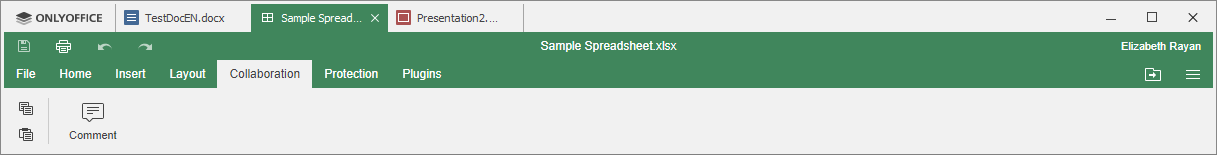
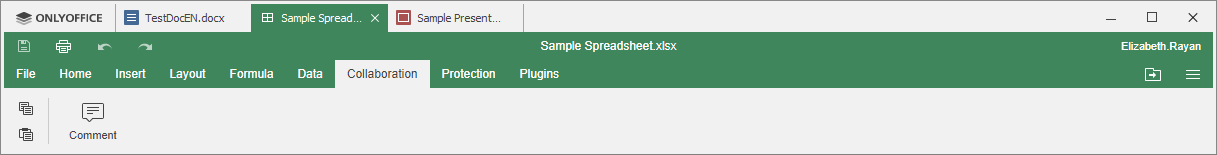
Updates to the documentation

Changed region(s): [[0.1561, 0.3871, 0.4684, 0.5677], [0.3435, 0.0774, 0.4059, 0.1548]]

diff --git a/OfficeWeb/apps/spreadsheeteditor/main/resources/help/ru/UsageInstructions/InsertHeadersFooters.htm b/OfficeWeb/apps/spreadsheeteditor/main/resources/help/ru/UsageInstructions/InsertHeadersFooters.htm
@@ -1,0 +1,46 @@
+<!DOCTYPE html>
+<html>
+	<head>
+		<title>Вставка верхнего и нижнего колонтитулов</title>
+		<meta charset="utf-8" />
+        <meta name="description" content="Вставляйте верхние и нижние колонтитулы, чтобы отобразить дополнительную информацию в печатной версии таблицы." />
+		<link type="text/css" rel="stylesheet" href="../editor.css" />
+        <script type="text/javascript" src="../callback.js"></script>
+        <script type="text/javascript" src="../search/js/page-search.js"></script>
+	</head>
+	<body>
+		<div class="mainpart">
+        <div class="search-field">
+            <input id="search" class="searchBar" placeholder="Search" type="text" onkeypress="doSearch(event)">
+        </div>
+			<h1>Вставка верхнего и нижнего колонтитулов</h1>
+            <p>Колонтитулы позволяют вставить в печатную версию рабочего листа какую-то дополнительную информацию, такую как дата и время, номер страницы, имя листа и так далее. Колонтитулы отображаются в печатной версии электронной таблицы.</p>
+			<p>Чтобы вставить верхний или нижний колонтитул на рабочий лист:</p>
+			<ol>
+			<li>перейдите на вкладку <b>Макет</b>,</li>
+			<li>нажмите кнопку <img alt="Кнопка Изменить колонтитулы" src="../images/header_footer_icon.png" /> <b>Изменить колонтитулы</b> на верхней панели инструментов,</li>
+            <li>откроется окно <b>Параметры колонтитулов</b>, в котором можно настроить следующие параметры:
+                <ul>
+                    <li>поставьте галочку <b>Особый для первой страницы</b>, если надо применить особый верхний или нижний колонтитул для самой первой страницы или вообще не добавлять на нее колонтитулы. Ниже появится вкладка <b>Первая страница</b>.</li>
+                    <li>поставьте галочку <b>Разные для четных и нечетных</b>, чтобы добавить разные колонтитулы для четных и нечетных страниц. Ниже появятся вкладки <b>Нечетная страница</b> и <b>Четная страница</b>.</li>
+                    <li>опция <b>Изменять масштаб вместе с документом</b> позволяет масштабировать колонтитулы вместе с рабочим листом. Этот параметр включен по умолчанию.</li>
+                    <li>опция <b>Выровнять относительно полей страницы</b> позволяет выровнять левый колонтитул по левому полю и правый колонтитул по правому полю. Этот параметр включен по умолчанию.</li>
+                </ul>
+                <p><img alt="Параметры колонтитулов" src="../images/header_footer_settings.png" /></p>
+            </li>
+            <li>вставьте нужные данные. В зависимости от выбранных параметров, вы можете изменить настройки для <b>Всех страниц</b> или настроить колонтитулы для первой страницы, а также для нечетных и четных страниц в отдельности. Перейдите на нужную вкладку и настройте доступные параметры. Вы можете использовать один из готовых пресетов или вставить вручную нужные данные в левое, центральное и правое поля верхнего и нижнего колонтитула:
+                    <ul>
+                        <li>выберите один из доступных пресетов в списке <b>Предустановки</b>: <em>Страница 1</em>; <em>Страница 1 из ?</em>; <em>Лист1</em>; <em>Конфиденциально, дд/мм/гггг, Страница 1</em>; <em>Имя таблицы.xlsx</em>; <em>Лист1, Страница 1</em>; <em>Лист1, Конфиденциально, Страница 1</em>; <em>Имя таблицы.xlsx, Страница 1</em>; <em>Страница 1, Лист</em>; <em>Страница 1, Имя таблицы.xlsx</em>; <em>Автор, Страница 1, дд/мм/гггг</em>; <em>Подготовил: Автор дд/мм/гггг, Страница 1</em>.
+                            <p>Будут добавлены соответствующие переменные.</p>
+                        </li>
+                        <li>установите курсор в левом, центральном или правом поле верхнего или нижнего колонтитула и используйте список <b>Вставить</b>, чтобы добавить <em>Номер страницы</em>, <em>Число страниц</em>, <em>Дату</em>, <em>Время</em>, <em>Имя файла</em>, <em>Имя листа</em>.</li>
+                    </ul>
+                </li>
+            <li>отформатируйте текст, вставленный в верхний или нижний колонтитул, используя соответствующие опции. Можно изменить заданный по умолчанию шрифт, его размер, цвет, применить такие стили шрифта, как жирный, курсив, подчеркнутый, зачеркнутый, использовать подстрочные или надстрочные знаки.</li>
+            <li>когда все будет готово, нажмите кнопку <b>OK</b>, чтобы применить изменения.</li>
+			</ol>
+            <p>Чтобы изменить добавленные колонтитулы, нажмите кнопку <img alt="Кнопка Редактировать колонтитулы" src="../images/header_footer_icon.png" /> <b>Редактировать колонтитулы</b> на верхней панели инструментов, внесите нужные изменения в окне <b>Параметры колонтитулов</b>,  и нажмите на кнопку <b>OK</b>, чтобы сохранить изменения.</p>
+            <p>Добавленные верхний и/или нижний колонтитул будут отображены в печатной версии электронной таблицы.</p>
+		</div>
+	</body>
+</html>

diff --git a/OfficeWeb/apps/spreadsheeteditor/main/resources/help/en/UsageInstructions/InsertHeadersFooters.htm b/OfficeWeb/apps/spreadsheeteditor/main/resources/help/en/UsageInstructions/InsertHeadersFooters.htm
@@ -1,0 +1,46 @@
+<!DOCTYPE html>
+<html>
+	<head>
+		<title>Insert headers and footers</title>
+		<meta charset="utf-8" />
+        <meta name="description" content="Insert headers and footers to display additional info in a printed spreadsheet." />
+		<link type="text/css" rel="stylesheet" href="../editor.css" />
+        <script type="text/javascript" src="../callback.js"></script>
+        <script type="text/javascript" src="../search/js/page-search.js"></script>
+	</head>
+	<body>
+		<div class="mainpart">
+        <div class="search-field">
+            <input id="search" class="searchBar" placeholder="Search" type="text" onkeypress="doSearch(event)">
+        </div>
+			<h1>Insert headers and footers</h1>
+            <p>Headers and footers allow to add some additional info on a printed worksheet, such as date and time, page number, sheet name etc. Headers and footers are displayed in the printed version of a spreadsheet.</p>
+			<p>To insert a header or footer in a worksheet:</p>
+			<ol>
+			<li>switch to the <b>Layout</b> tab,</li>
+			<li>click the <img alt="Edit Header/Footer icon" src="../images/header_footer_icon.png" /> <b>Edit Header/Footer</b> button at the top toolbar,</li>
+            <li>the <b>Header/Footer Settings</b> window will open, where you can adjust the following settings:
+                <ul>
+                    <li>check the <b>Different first page</b> box to apply a different header or footer to the very first page or in case you don't want to add any header/ footer to it at all. The <b>First page</b> tab will appear below.</li>
+                    <li>check the <b>Different odd and even page</b> box to add different headers/footer for odd and even pages. The <b>Odd page</b> and <b>Even page</b> tabs will appear below.</li>
+                    <li>the <b>Scale with document</b> option allows to scale the header and footer together with the worksheet. This parameter is enabled by default.</li>
+                    <li>the <b>Align with page margins</b> option allows to align the left header/footer to the left margin and the right header/footer to the right margin. This option is enable by default. </li>
+                </ul>
+                <p><img alt="Header/Footer Settings" src="../images/header_footer_settings.png" /></p>
+            </li>
+            <li>insert the necessary data. Depending on the selected options, you can adjust settings for <b>All pages</b> or set up the header/footer for the first page as well as for odd and even pages individually. Switch to the necessary tab and adjust the available parameters. You can use one of the ready-made presets or insert the necessary data to the left, center and right header/footer field manually:
+                <ul>
+                    <li>choose one of the available presets from the <b>Presets</b> list: <em>Page 1</em>; <em>Page 1 of ?</em>; <em>Sheet1</em>; <em>Confidential, dd/mm/yyyy, Page 1</em>; <em>Spreadsheet name.xlsx</em>; <em>Sheet1, Page 1</em>; <em>Sheet1, Confidential, Page 1</em>; <em>Spreadsheet name.xlsx, Page 1</em>; <em>Page 1, Sheet1</em>; <em>Page 1, Spreadsheet name.xlsx</em>; <em>Author, Page 1, dd/mm/yyyy</em>; <em>Prepared by Author dd/mm/yyyy, Page 1</em>.
+                    <p>The corresponding variables will be added.</p>
+                    </li>
+                    <li>place the cursor into the left, center or right field of the header/footer and use the <b>Insert</b> list to add <em>Page number</em>, <em>Page count</em>, <em>Date</em>, <em>Time</em>, <em>File name</em>, <em>Sheet name</em>.</li>
+                </ul>
+            </li>
+            <li>format the text inserted into header/footer using the corresponding controls. You can change the default font, its size, color, apply some font styles, such as bold, italic, underlined, strikethrough, use subscript or superscript characters.</li>
+            <li>when ready, click the <b>OK</b> button to apply the changes.</li>
+			</ol>
+            <p>To edit the added headers and footers, click the <img alt="Edit Header/Footer icon" src="../images/header_footer_icon.png" /> <b>Edit Header/Footer</b> button at the top toolbar, make the necessary changes in the <b>Header/Footer Settings</b> window, and click <b>OK</b> to save the changes.</p>
+            <p>The added header and/or footer will be displayed in the printed version of the spreadsheet.</p>
+		</div>
+	</body>
+</html>

diff --git a/OfficeWeb/apps/spreadsheeteditor/main/resources/help/ru/UsageInstructions/ViewDocInfo.htm b/OfficeWeb/apps/spreadsheeteditor/main/resources/help/ru/UsageInstructions/ViewDocInfo.htm
@@ -16,7 +16,16 @@
 			<h1>Просмотр сведений о файле</h1>
 			<p>Чтобы получить доступ к подробным сведениям о редактируемой электронной таблице, нажмите на вкладку <b>Файл</b> на верхней панели инструментов и выберите опцию <b>Сведения о таблице</b>.</p>
             <h3>Общие сведения</h3>
-            <p>Сведения о файле включают название электронной таблицы и приложение, в котором была создана электронная таблица. <span class="onlineDocumentFeatures">В <em>онлайн-версии</em> также отображаются следующие сведения: автор, размещение, дата создания.</span></p>
+            <p>Сведения о документе включают в себя ряд свойств файла, описывающих документ. Некоторые из этих свойств обновляются автоматически, а некоторые из них можно редактировать.</p>
+            <ul>
+                <li class="onlineDocumentFeatures"><b>Размещение</b> - папка в модуле <b>Документы</b>, в которой хранится файл. <b>Владелец</b> - имя пользователя, который создал файл. <b>Загружена</b> - дата и время создания файла. Эти свойства доступны только в <em>онлайн-версии</em>.</li>
+                <li><b>Название</b>, <b>Тема</b>, <b>Комментарий</b> - эти свойства позволяют упростить классификацию документов. Вы можете задать нужный текст в полях свойств.</li>
+                <li><b>Последнее изменение</b> - дата и время последнего изменения файла.</li>
+                <li class="onlineDocumentFeatures"><b>Автор последнего изменения</b> - имя пользователя, сделавшего последнее изменение в электронной таблице. Это свойство доступно только в <em>онлайн-версии</em>.</li>
+                <li><b>Приложение</b> - приложение, в котором была создана электронная таблица.</li>
+                <li><b>Автор</b> - имя человека, создавшего файл. В этом поле вы можете ввести нужное имя. Нажмите <em>Enter</em>, чтобы добавить новое поле, позволяющее указать еще одного автора.</li>
+            </ul>
+            <p>Если вы изменяете свойства файла в десктопных редакторах, не забудьте сохранить файл, чтобы применить изменения.</p>
             <p class="note"><b>Примечание</b>: используя онлайн-редакторы, вы можете изменить название электронной таблицы непосредственно из интерфейса редактора. Для этого нажмите на вкладку <b>Файл</b> на верхней панели инструментов и выберите опцию <b>Переименовать...</b>, затем введите нужное <b>Имя файла</b> в новом открывшемся окне и нажмите кнопку <b>OK</b>.</p>
             <div class="onlineDocumentFeatures">
             <h3>Сведения о правах доступа</h3>

diff --git a/OfficeWeb/apps/presentationeditor/main/resources/help/ru/UsageInstructions/ViewPresentationInfo.htm b/OfficeWeb/apps/presentationeditor/main/resources/help/ru/UsageInstructions/ViewPresentationInfo.htm
@@ -16,7 +16,16 @@
 			<h1>Просмотр сведений о презентации</h1>
 			<p>Чтобы получить доступ к подробным сведениям о редактируемой презентации, нажмите на вкладку <b>Файл</b> на верхней панели инструментов и выберите опцию <b>Сведения о презентации</b>.</p>
             <h3>Общие сведения</h3>
-            <p>Сведения о презентации включают название презентации и приложение, в котором была создана презентация. <span class="onlineDocumentFeatures">В <em>онлайн-версии</em> также отображаются следующие сведения: автор, размещение, дата создания.</span></p>
+            <p>Сведения о документе включают в себя ряд свойств файла, описывающих документ. Некоторые из этих свойств обновляются автоматически, а некоторые из них можно редактировать.</p>
+            <ul>
+                <li class="onlineDocumentFeatures"><b>Размещение</b> - папка в модуле <b>Документы</b>, в которой хранится файл. <b>Владелец</b> - имя пользователя, который создал файл. <b>Загружена</b> - дата и время создания файла. Эти свойства доступны только в <em>онлайн-версии</em>.</li>
+                <li><b>Название</b>, <b>Тема</b>, <b>Комментарий</b> - эти свойства позволяют упростить классификацию документов. Вы можете задать нужный текст в полях свойств.</li>
+                <li><b>Последнее изменение</b> - дата и время последнего изменения файла.</li>
+                <li class="onlineDocumentFeatures"><b>Автор последнего изменения</b> - имя пользователя, сделавшего последнее изменение в презентации. Это свойство доступно только в <em>онлайн-версии</em>.</li>
+                <li><b>Приложение</b> - приложение, в котором была создана презентация.</li>
+                <li><b>Автор</b> - имя человека, создавшего файл. В этом поле вы можете ввести нужное имя. Нажмите <em>Enter</em>, чтобы добавить новое поле, позволяющее указать еще одного автора.</li>
+            </ul>
+            <p>Если вы изменяете свойства файла в десктопных редакторах, не забудьте сохранить файл, чтобы применить изменения.</p>
             <p class="note"><b>Примечание</b>: используя онлайн-редакторы, вы можете изменить название презентации непосредственно из интерфейса редактора. Для этого нажмите на вкладку <b>Файл</b> на верхней панели инструментов и выберите опцию <b>Переименовать...</b>, затем введите нужное <b>Имя файла</b> в новом открывшемся окне и нажмите кнопку <b>OK</b>.</p>
             <div class="onlineDocumentFeatures">
             <h3>Сведения о правах доступа</h3>

diff --git a/OfficeWeb/apps/presentationeditor/main/resources/help/en/UsageInstructions/InsertHeadersFooters.htm b/OfficeWeb/apps/presentationeditor/main/resources/help/en/UsageInstructions/InsertHeadersFooters.htm
@@ -1,0 +1,45 @@
+<!DOCTYPE html>
+<html>
+	<head>
+		<title>Insert headers and footers</title>
+		<meta charset="utf-8" />
+        <meta name="description" content="Insert headers and footers in your presentation." />
+		<link type="text/css" rel="stylesheet" href="../editor.css" />
+        <script type="text/javascript" src="../callback.js"></script>
+        <script type="text/javascript" src="../search/js/page-search.js"></script>
+	</head>
+	<body>
+		<div class="mainpart">
+        <div class="search-field">
+            <input id="search" class="searchBar" placeholder="Search" type="text" onkeypress="doSearch(event)">
+        </div>
+			<h1>Insert headers and footers</h1>
+            <p>Headers and footers allow to add some additional info on a slide, such as date and time, slide number, or a text.</p>
+			<p>To insert a header or footer in a presentation:</p>
+			<ol>
+			<li>switch to the <b>Insert</b> tab,</li>
+			<li>click the <img alt="Edit Header/Footer icon" src="../images/header_footer_icon.png" /> <b>Edit Header/Footer</b> button at the top toolbar,</li>
+            <li>the <b>Header/Footer Settings</b> window will open. Check the data you want to add into the footer. The changes are displayed in the preview window on the right.
+                <ul>
+                    <li>check the <b>Date and time</b> box to insert a date or time in a selected format. The selected date will be added to the left field of the slide footer.
+                    <p>Specify the necessary data format:</p>
+                    <ul>
+                        <li><b>Update automatically</b> - check this radio button if you want to automatically update the date and time according to the current date and time.
+                        <p>Then select the necessary date and time <b>Format</b> and <b>Language</b> from the lists.</p>
+                        </li>
+                        <li><b>Fixed</b> - check this radio button if you do not want to automatically update the date and time.</li>
+                    </ul>
+                    </li>
+                    <li>check the <b>Slide number</b> box to insert the current slide number. The slide number will be added in the right field of the slide footer.</li>
+                    <li>check <b>Text in footer</b> box to insert any text. The text will be added in the central field of the slide footer.</li>
+                </ul>
+                <p><img alt="Header/Footer Settings" src="../images/header_footer_settings.png" /></p>
+            </li>
+            <li>check the <b>Don't show on the title slide</b> option, if necessary,</li>
+            <li>when ready, click the <b>OK</b> button to apply the changes.</li>
+			</ol>
+            <p>To edit the added footer, click the <img alt="Edit Header/Footer icon" src="../images/header_footer_icon.png" /> <b>Edit Header/Footer</b> button at the top toolbar, make the necessary changes in the <b>Header/Footer Settings</b> window, and click <b>OK</b> to save the changes.</p>
+            
+		</div>
+	</body>
+</html>

diff --git a/OfficeWeb/apps/presentationeditor/main/resources/help/en/UsageInstructions/ViewPresentationInfo.htm b/OfficeWeb/apps/presentationeditor/main/resources/help/en/UsageInstructions/ViewPresentationInfo.htm
@@ -16,7 +16,16 @@
 			<h1>View presentation information</h1>
 			<p>To access the detailed information about the currently edited presentation, click the <b>File</b> tab of the top toolbar and select the <b>Presentation Info</b> option.</p>
             <h3>General Information</h3>
-            <p>The presentation information includes presentation title and the application the presentation was created with. <span class="onlineDocumentFeatures">In the <em>online version</em>, the following information is also displayed: author, location, creation date.</span></p>
+            <p>The spreadsheet information includes a number of the file properties which describe the spreadsheet. Some of these properties are updated automatically, and some of them can be edited.</p>
+            <ul>
+                <li class="onlineDocumentFeatures"><b>Location</b> - the folder in the <b>Documents</b> module where the file is stored. <b>Owner</b> - the name of the user who have created the file. <b>Uploaded</b> - the date and time when the file has been created. These properties are available in the <em>online version</em> only.</li>
+                <li><b>Title</b>, <b>Subject</b>, <b>Comment</b> - these properties allow to simplify your documents classification. You can specify the necessary text in the properties fields.</li>
+                <li><b>Last Modified</b> - the date and time when the file was last modified.</li>
+                <li class="onlineDocumentFeatures"><b>Last Modified By</b> - the name of the user who have made the latest change in the presentation. This property is available in the <em>online version</em> only.</li>
+                <li><b>Application</b> - the application the presentation was created with.</li>
+                <li><b>Author</b> - the person who have created the file. You can enter the necessary name in this field. Press <em>Enter</em> to add a new field that allows to specify one more author.</li>
+            </ul>
+            <p>If you change properties in desktop editors, do not forget to save the file to apply the changes.</p>
             <div class="onlineDocumentFeatures">
                 <p class="note"><b>Note</b>: Online Editors allow you to change the presentation title directly from the editor interface. To do that, click the <b>File</b> tab of the top toolbar and select the <b>Rename...</b> option, then enter the necessary <b>File name</b> in a new window that opens and click <b>OK</b>.</p>
             </div>

diff --git a/OfficeWeb/apps/spreadsheeteditor/main/resources/help/ru/UsageInstructions/SortData.htm b/OfficeWeb/apps/spreadsheeteditor/main/resources/help/ru/UsageInstructions/SortData.htm
@@ -149,6 +149,7 @@
 				<li>нажмите кнопку <b>OK</b>, чтобы применить выбранный шаблон.</li>
 			</ol>
 			<p>Шаблон будет применен к выделенному диапазону ячеек, и вы сможете редактировать заголовки таблицы и применять фильтр для работы с данными.</p>
+            <p>Форматированную таблицу также можно вставить с помощью кнопки <b>Таблица</b> на вкладке <b>Вставка</b>. В этом случае применяется шаблон таблицы по умолчанию.</p>
             <p class="note"><b>Примечание</b>: как только вы создадите новую форматированную таблицу, этой таблице будет автоматически присвоено <a href="UseNamedRanges.htm" onclick="onhyperlinkclick(this)">стандартное имя</a> (<em>Таблица1</em>, <em>Таблица2</em> и т.д.). Это имя можно изменить, сделав его более содержательным, и использовать для дальнейшей работы.</p>
             <p>Если вы введете новое значение в любой ячейке под последней строкой таблицы (если таблица не содержит строки итогов) или в ячейке справа от последнего столбца таблицы, форматированная таблица будет автоматически расширена, и в нее будет включена новая строка или столбец. Если вы не хотите расширять таблицу, нажмите на появившуюся кнопку <img alt="Специальная вставка" src="../images/pastespecialbutton.png" /> и выберите опцию <b>Отменить авторазвертывание таблицы</b>. Как только это действие будет отменено, в этом меню станет доступна опция <b>Повторить авторазвертывание таблицы</b>.</p>
             <p><img alt="Отменить авторазвертывание таблицы" src="../images/undoautoexpansion.png" /></p>

diff --git a/OfficeWeb/apps/spreadsheeteditor/main/resources/help/en/UsageInstructions/ViewDocInfo.htm b/OfficeWeb/apps/spreadsheeteditor/main/resources/help/en/UsageInstructions/ViewDocInfo.htm
@@ -16,7 +16,16 @@
 			<h1>View file information</h1>
 			<p>To access the detailed information about the currently edited spreadsheet, click the <b>File</b> tab of the top toolbar and select the <b>Spreadsheet Info</b> option.</p>
             <h3>General Information</h3>
-            <p>The file information includes spreadsheet title and the application the spreadsheet was created with. <span class="onlineDocumentFeatures">In the <em>online version</em>, the following information is also displayed: author, location, creation date.</span></p>
+            <p>The spreadsheet information includes a number of the file properties which describe the spreadsheet. Some of these properties are updated automatically, and some of them can be edited.</p>
+            <ul>
+                <li class="onlineDocumentFeatures"><b>Location</b> - the folder in the <b>Documents</b> module where the file is stored. <b>Owner</b> - the name of the user who have created the file. <b>Uploaded</b> - the date and time when the file has been created. These properties are available in the <em>online version</em> only.</li>
+                <li><b>Title</b>, <b>Subject</b>, <b>Comment</b> - these properties allow to simplify your documents classification. You can specify the necessary text in the properties fields.</li>
+                <li><b>Last Modified</b> - the date and time when the file was last modified.</li>
+                <li class="onlineDocumentFeatures"><b>Last Modified By</b> - the name of the user who have made the latest change in the spreadsheet. This property is available in the <em>online version</em> only.</li>
+                <li><b>Application</b> - the application the spreadsheet was created with.</li>
+                <li><b>Author</b> - the person who have created the file. You can enter the necessary name in this field. Press <em>Enter</em> to add a new field that allows to specify one more author.</li>
+            </ul>
+            <p>If you change properties in desktop editors, do not forget to save the file to apply the changes.</p>
             <div class="onlineDocumentFeatures">
                 <p class="note"><b>Note</b>: Online Editors allow you to change the spreadsheet title directly from the editor interface. To do that, click the <b>File</b> tab of the top toolbar and select the <b>Rename...</b> option, then enter the necessary <b>File name</b> in a new window that opens and click <b>OK</b>.</p>
             </div>

diff --git a/OfficeWeb/apps/spreadsheeteditor/main/resources/help/ru/ProgramInterface/FormulaTab.htm b/OfficeWeb/apps/spreadsheeteditor/main/resources/help/ru/ProgramInterface/FormulaTab.htm
@@ -1,0 +1,35 @@
+<!DOCTYPE html>
+<html>
+	<head>
+		<title>Вкладка Формула</title>
+		<meta charset="utf-8" />
+        <meta name="description" content="Знакомство с пользовательским интерфейсом редактора электронных таблиц - Вкладка Формула" />
+		<link type="text/css" rel="stylesheet" href="../editor.css" />
+        <script type="text/javascript" src="../callback.js"></script>
+        <script type="text/javascript" src="../search/js/page-search.js"></script>
+	</head>
+	<body>
+		<div class="mainpart">
+            <div class="search-field">
+                <input id="search" class="searchBar" placeholder="Search" type="text" onkeypress="doSearch(event)">
+            </div>
+			<h1>Вкладка Формула</h1>
+            <p>Вкладка <b>Формула</b> позволяет удобно <a href="../UsageInstructions/InsertFunction.htm" onclick="onhyperlinkclick(this)">работать со всеми функциями</a>.</p>
+            <div class="onlineDocumentFeatures">
+                <p>Окно онлайн-редактора электронных таблиц:</p>
+                <p><img alt="Вкладка Формула" src="../images/interface/formulatab.png" /></p>
+            </div>
+            <div class="desktopDocumentFeatures">
+                <p>Окно десктопного редактора электронных таблиц:</p>
+                <p><img alt="Вкладка Формула" src="../images/interface/desktop_formulatab.png" /></p>
+            </div>
+            <p>С помощью этой вкладки вы можете выполнить следующие действия:</p>
+            <ul>
+                <li>вставлять функции, используя диалоговое окно <b>Вставка функций</b>,</li>
+                <li>получать быстрый доступ к формулам <b>Автосуммы</b>,</li>
+                <li>получать доступ к 10 <b>последним использованным</b> формулам,</li> 
+                <li>работать с формулами, распределенными по категориям.</li>               
+            </ul>
+		</div>
+	</body>
+</html>

diff --git a/OfficeWeb/apps/spreadsheeteditor/main/resources/help/ru/ProgramInterface/DataTab.htm b/OfficeWeb/apps/spreadsheeteditor/main/resources/help/ru/ProgramInterface/DataTab.htm
@@ -1,0 +1,34 @@
+<!DOCTYPE html>
+<html>
+	<head>
+		<title>Вкладка Данные</title>
+		<meta charset="utf-8" />
+        <meta name="description" content="Знакомство с пользовательским интерфейсом редактора электронных таблиц - Вкладка Данные" />
+		<link type="text/css" rel="stylesheet" href="../editor.css" />
+        <script type="text/javascript" src="../callback.js"></script>
+        <script type="text/javascript" src="../search/js/page-search.js"></script>
+	</head>
+	<body>
+		<div class="mainpart">
+            <div class="search-field">
+                <input id="search" class="searchBar" placeholder="Search" type="text" onkeypress="doSearch(event)">
+            </div>
+			<h1>Вкладка Данные</h1>
+            <p>Вкладка <b>Данные</b> позволяет управлять данными на рабочем листе.</p>
+            <div class="onlineDocumentFeatures">
+                <p>Окно онлайн-редактора электронных таблиц:</p>
+                <p><img alt="Вкладка Данные" src="../images/interface/datatab.png" /></p>
+            </div>
+            <div class="desktopDocumentFeatures">
+                <p>Окно десктопного редактора электронных таблиц:</p>
+                <p><img alt="Вкладка Данные" src="../images/interface/desktop_datatab.png" /></p>
+            </div>
+            <p>С помощью этой вкладки вы можете выполнить следующие действия:</p>
+            <ul>
+                <li>выполнять <a href="../UsageInstructions/SortData.htm" onclick="onhyperlinkclick(this)">сортировку и фильтрацию</a> данных,</li>
+                <li>преобразовывать <a href="../UsageInstructions/InsertImages.htm" onclick="onhyperlinkclick(this)">текст в столбцы</a>,</li>
+                <li><a href="../UsageInstructions/SavePrintDownload.htm#printarea" onclick="onhyperlinkclick(this)">группировать данные и отменять группировку</a>.</li>                
+            </ul>
+		</div>
+	</body>
+</html>

diff --git a/OfficeWeb/apps/spreadsheeteditor/main/resources/help/ru/ProgramInterface/FileTab.htm b/OfficeWeb/apps/spreadsheeteditor/main/resources/help/ru/ProgramInterface/FileTab.htm
@@ -31,7 +31,7 @@
                 </li>
                 <li class="desktopDocumentFeatures">защитить файл с помощью пароля, изменить или удалить пароль (доступно только в <em>десктопной версии</em>);</li>
                 <li class="onlineDocumentFeatures"><a href="../UsageInstructions/OpenCreateNew.htm" onclick="onhyperlinkclick(this)">создать</a> новую электронную таблицу или открыть недавно отредактированную (доступно только в <em>онлайн-версии</em>),</li>
-                <li>просмотреть <a href="../UsageInstructions/ViewDocInfo.htm" onclick="onhyperlinkclick(this)">общие сведения</a> об электронной таблице,</li>
+                <li>просмотреть <a href="../UsageInstructions/ViewDocInfo.htm" onclick="onhyperlinkclick(this)">общие сведения</a> об электронной таблице или изменить некоторые свойства файла,</li>
                 <li class="onlineDocumentFeatures">управлять <a href="../UsageInstructions/ViewDocInfo.htm" onclick="onhyperlinkclick(this)">правами доступа</a> (доступно только в <em>онлайн-версии</em>),</li>
                 <li>открыть <a href="../HelpfulHints/AdvancedSettings.htm" onclick="onhyperlinkclick(this)">дополнительные параметры</a> редактора,</li>
                 <li><span class="desktopDocumentFeatures">в <em>десктопной версии</em> открыть в окне <b>Проводника</b> папку, в которой сохранен файл.</span><span class="onlineDocumentFeatures"> В <em>онлайн-версии</em> открыть в новой вкладке браузера папку модуля <b>Документы</b>, в которой сохранен файл.</span></li>

diff --git a/OfficeWeb/apps/presentationeditor/main/resources/help/ru/ProgramInterface/FileTab.htm b/OfficeWeb/apps/presentationeditor/main/resources/help/ru/ProgramInterface/FileTab.htm
@@ -31,7 +31,7 @@
                 </li>
                 <li class="desktopDocumentFeatures">защитить файл с помощью пароля, изменить или удалить пароль (доступно только в <em>десктопной версии</em>);</li>
                 <li class="onlineDocumentFeatures"><a href="../UsageInstructions/OpenCreateNew.htm" onclick="onhyperlinkclick(this)">создать</a> новую презентацию или открыть недавно отредактированную (доступно только в <em>онлайн-версии</em>),</li>
-                <li>просмотреть <a href="../UsageInstructions/ViewPresentationInfo.htm" onclick="onhyperlinkclick(this)">общие сведения</a> о презентации,</li>
+                <li>просмотреть <a href="../UsageInstructions/ViewPresentationInfo.htm" onclick="onhyperlinkclick(this)">общие сведения</a> о презентации  или изменить некоторые свойства файла,</li>
                 <li class="onlineDocumentFeatures">управлять <a href="../UsageInstructions/ViewPresentationInfo.htm" onclick="onhyperlinkclick(this)">правами доступа</a> (доступно только в <em>онлайн-версии</em>),</li>
                 <li>открыть <a href="../HelpfulHints/AdvancedSettings.htm" onclick="onhyperlinkclick(this)">дополнительные параметры</a> редактора,</li>
                 <li><span class="desktopDocumentFeatures">в <em>десктопной версии</em> открыть в окне <b>Проводника</b> папку, в которой сохранен файл.</span><span class="onlineDocumentFeatures"> В <em>онлайн-версии</em> открыть в новой вкладке браузера папку модуля <b>Документы</b>, в которой сохранен файл.</span></li>
